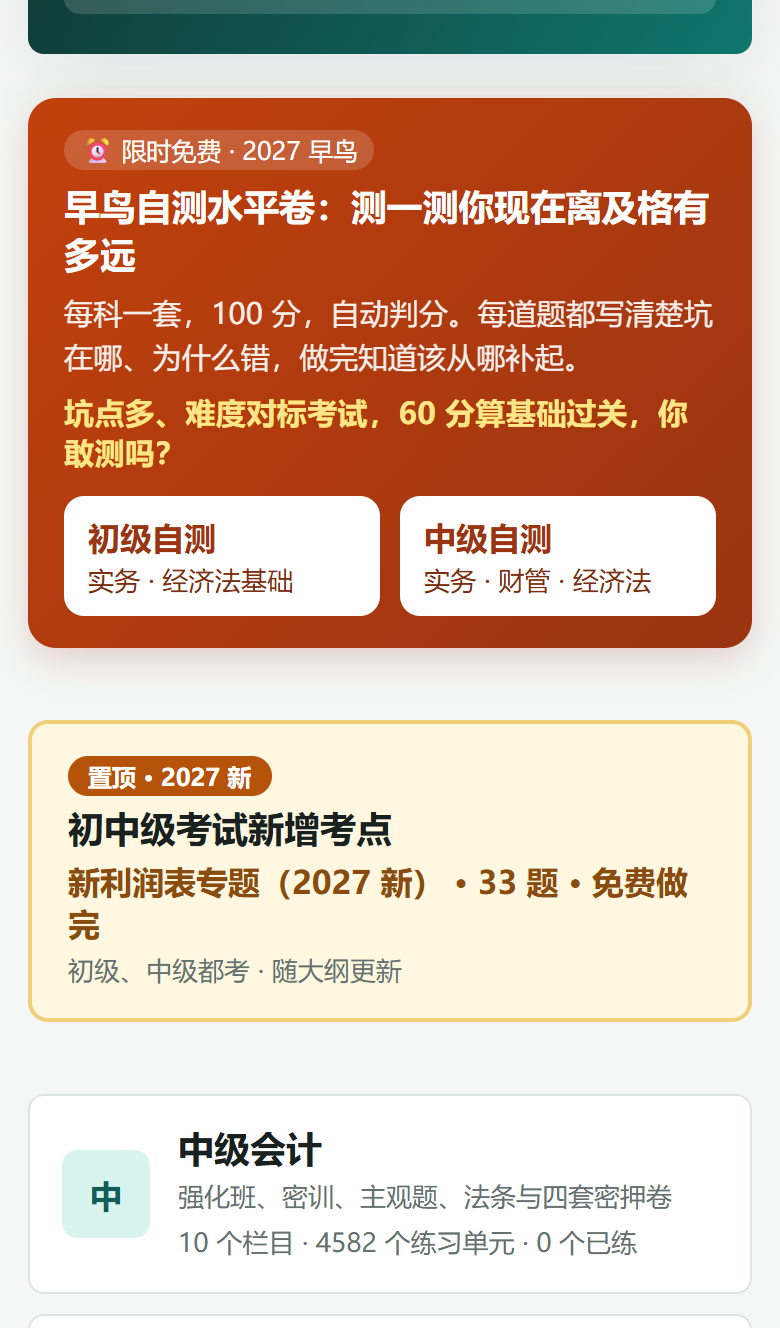
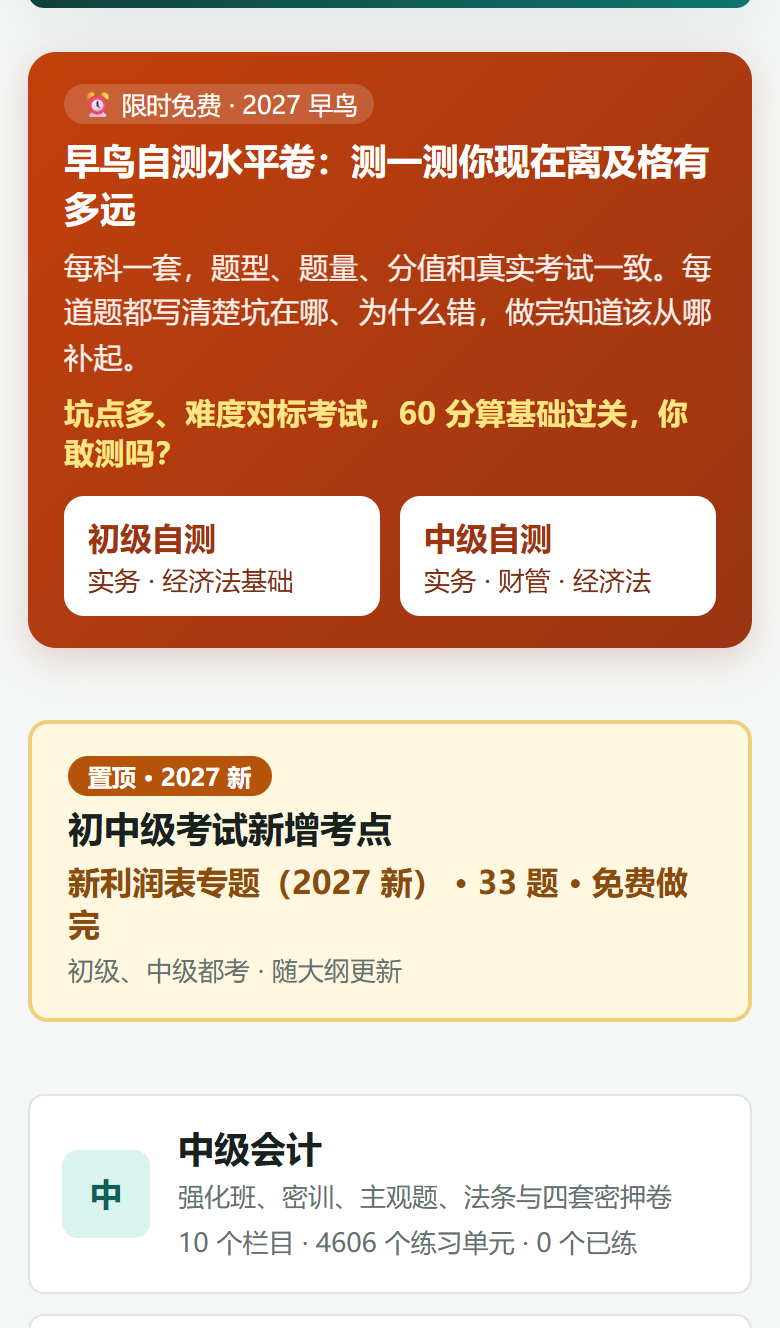
早鸟自测卷改成真实考试题型（初级 55 题；中级含计算分析/综合/简答）；演示视频同步

Changed region(s): [[0.0308, 0.0, 0.9846, 0.2779], [0.4308, 0.9262, 0.4923, 0.9571], [0.1231, 0.8953, 0.1538, 0.9262]]

diff --git a/promo-video/src/Kaozheng.tsx b/promo-video/src/Kaozheng.tsx
@@ -1,4 +1,4 @@
-import React from 'react';
+import React from 'react';
 import {AbsoluteFill, Audio, interpolate, spring, staticFile, useCurrentFrame, useVideoConfig} from 'remotion';
 import boxes from '../public/kz/boxes.json';
 import {Background, Box, Caption, FONT, Phone, fade} from './kit';
@@ -10,8 +10,8 @@ export const KAOZHENG_FRAMES = 1050;
 
 // 时间轴：0—110 开场；110—430 早鸟自测；430—840 新考点 + 做一道；840 起结尾
 const captions = [
-  {from: 110, to: 250, step: '限时免费', title: '早鸟自测水平卷', sub: '初级两科、中级三科 · 每科 100 分'},
-  {from: 250, to: 330, step: '限时免费', title: '坑点到位，难度对标考试', sub: '60 分算基础过关 · 选一科，一次做完'},
+  {from: 110, to: 250, step: '限时免费', title: '早鸟自测水平卷', sub: '初级两科、中级三科 · 题型题量和真实考试一致'},
+  {from: 250, to: 330, step: '限时免费', title: '坑点到位，难度对标考试', sub: '60% 算基础过关 · 选一科，一次做完'},
   {from: 330, to: 430, step: '做完就出分', title: '没到 60 分？别慌', sub: '每题写清坑在哪 · 错题按 1、3、7 天自动复习'},
   {from: 430, to: 540, step: '2027 新考点', title: '利润表改成五类列报', sub: '初级、中级都要考 · 首页置顶，33 题免费做完'},
   {from: 540, to: 630, step: '2027 新考点', title: '按准则原文逐条整理', sub: '财会〔2026〕11 号 + 答记者问，随大纲更新'},
@@ -30,7 +30,7 @@ const Hook: React.FC = () => {
         2027 会计考试<br />你现在能考<span style={{color: '#be123c'}}>几分</span>？
       </div>
       <div style={{fontWeight: 500, fontSize: 46, color: '#46554e', marginTop: 48, opacity: b, transform: `translateY(${(1 - b) * 30}px)`}}>
-        初级、中级早鸟自测<br />坑点到位，60 分算过关
+        初级、中级早鸟自测<br />题型和真实考试一样
       </div>
     </AbsoluteFill>
   );

diff --git a/CHANGELOG.md b/CHANGELOG.md
@@ -2,6 +2,9 @@
 
 新记录写在最上面。格式：日期 · 改动 · 原因 · 验证 · 分支/提交。面向买家的说明另写在 `app.js` 的 `UPDATE_LOG`。
 
+## 2026-11-20 · Claude Code · 考证演示视频随自测卷题型调整重渲染（main）
+- `Kaozheng.tsx` 字幕改为“题型题量和真实考试一致”“60% 算基础过关”；`capture-kaozheng.cjs` 出分截图改为隔题答对（适配 55 题）。
+
 ## 2026-11-20 · Claude Code · 考证演示视频加早鸟自测；首页核心表达（main）
 - `promo-video/`：`capture-kaozheng.cjs` 支持 `BASE` 环境变量和 playwright-core + 本机 Edge；新增早鸟自测三张截图（首页入口、选卷、出分）；`Kaozheng.tsx` 改为 35 秒：早鸟自测 → 新利润表专题 → 结尾“有能力 / 有方法 / 有诚意”。成片放在 quiz-bank-app 和 tina-home。
 - 首页介绍卡加一句核心表达：有能力、有决心、有诚意，用科学的刷题方法帮孩子把考点真正掌握，中考稳稳提分。
